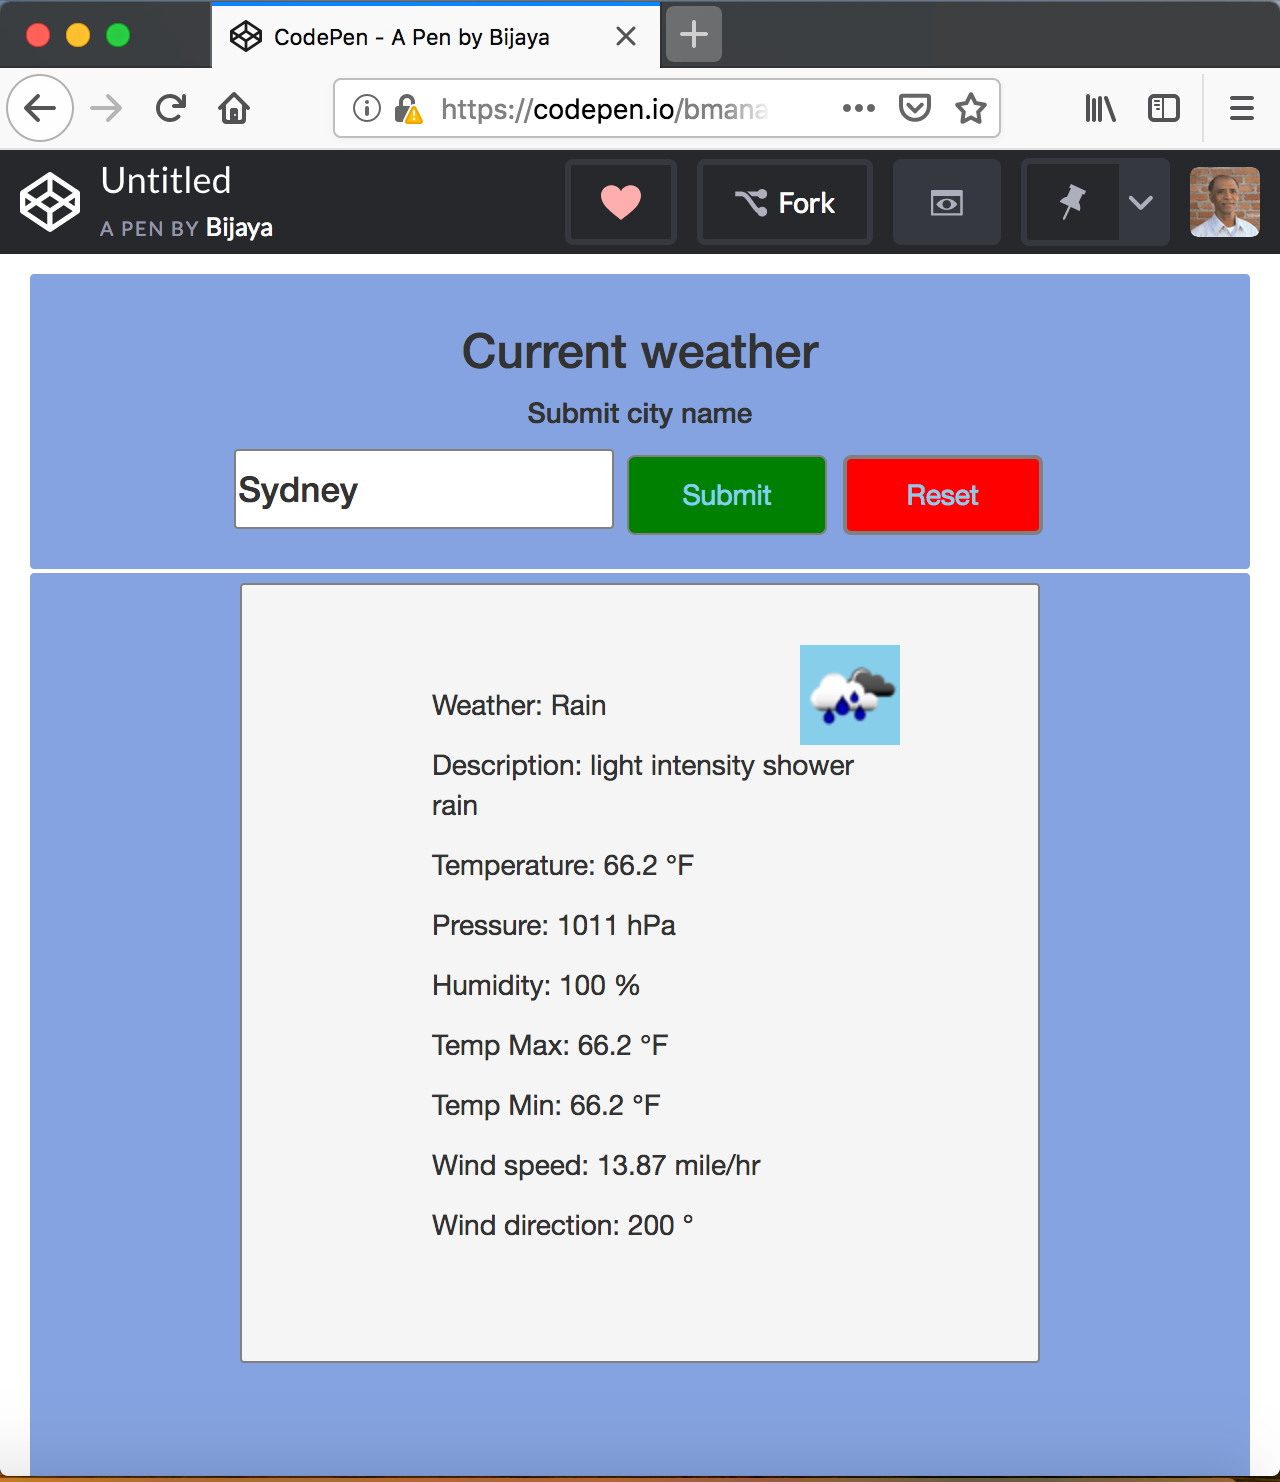
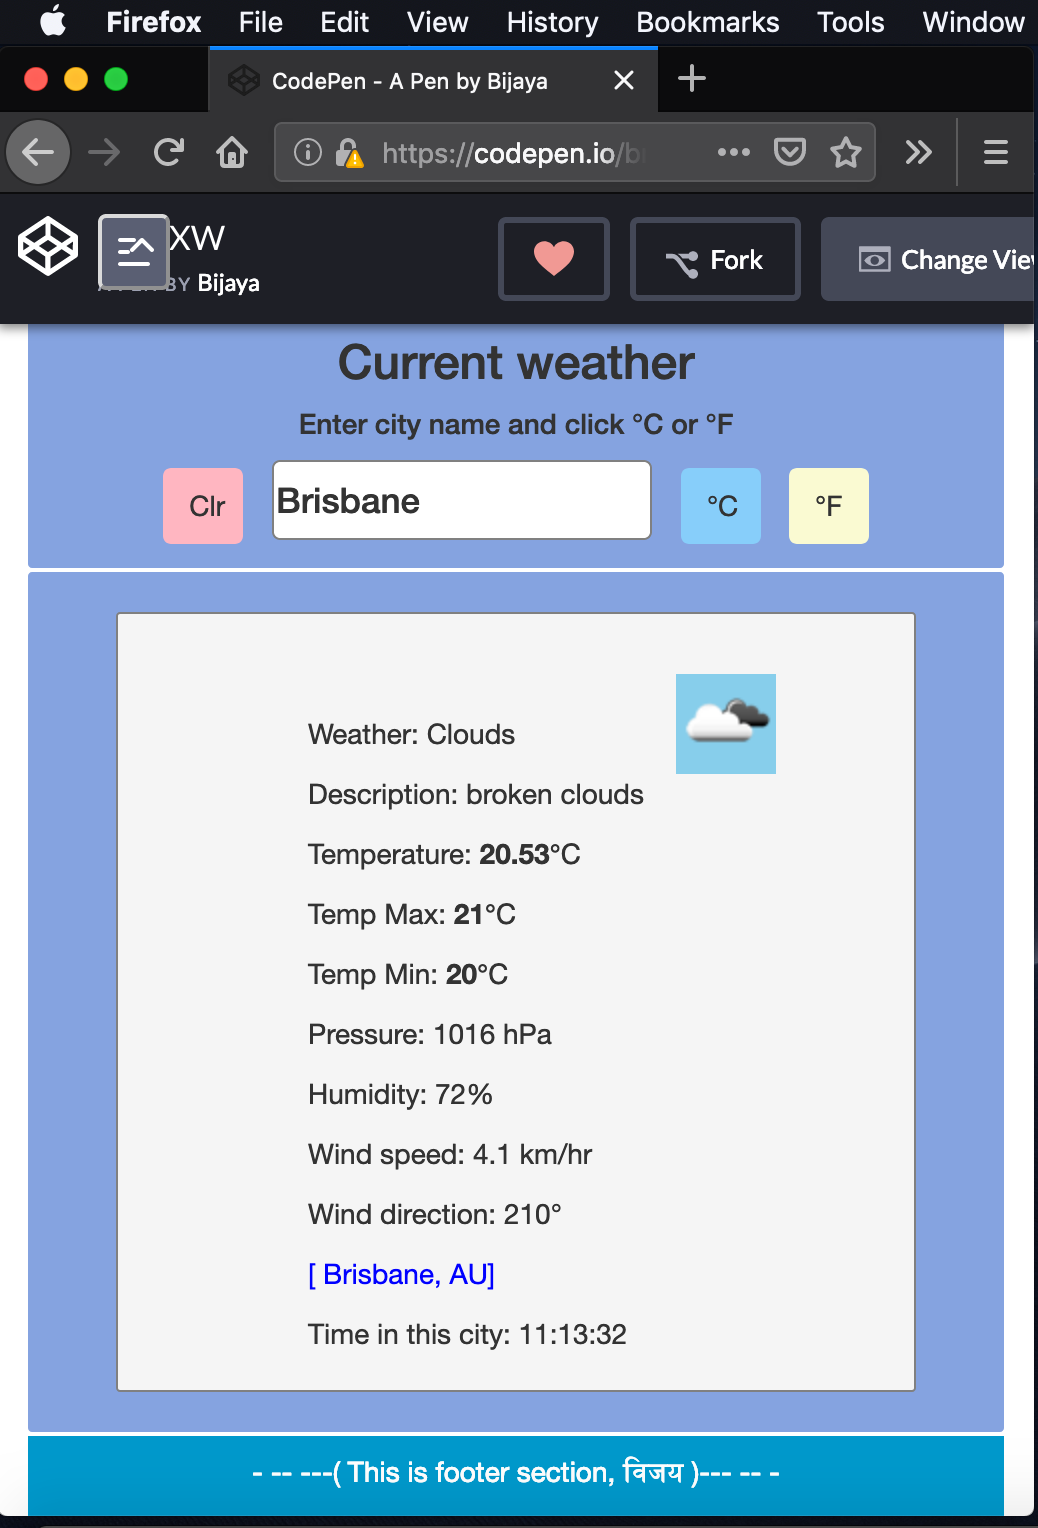
adds changes

diff --git a/script.js b/script.js
@@ -1,8 +1,18 @@
 $(document).ready(function(){
-    $("#reset").click(function(){
+    $(".reset").click(function(){
         location.reload();
     });
-    $("#submit").click(function(){
+  
+    var now = new Date();
+    // var nowArray = now.split("");
+    console.log(now);
+    console.log('now is', typeof now);
+    var timestamp = now.getTime()
+    console.log(timestamp);
+    console.log(typeof timestamp);
+    var time = now.getHours() + ":" + now.getMinutes() + ":" + now.getSeconds();
+    console.log(`${time}`);
+    $(".imperial").click(function(){
         var city = $("#city").val();
         if (city != ""){
             $.ajax({
@@ -13,7 +23,7 @@ $(document).ready(function(){
             dataType: "json",
             success:function(data){
                 console.log(data);
-                var widget = show(data);
+                var widget = imperial(data);
                 $("#show").html(widget);
                 $(".conversion").css("display", "block");
             },
@@ -27,30 +37,34 @@ $(document).ready(function(){
             $("#show").html("<h3 style='color:red'><i>City name empty<i></h3>")
         }
     });
-});
-
-function show(data){
-    return (
-       `<img style="background-color:skyblue" src='http://openweathermap.org/img/w/${data.weather[0].icon}.png'/><br>
-        <p>Weather: ${data.weather[0].main}</p>
-        <p>Description: ${data.weather[0].description}</p>
-        <p>Temperature: ${data.main.temp} &#8457</p>
-        <p>Pressure: ${data.main.pressure} hPa</p>
-        <p>Humidity: ${data.main.humidity} %</p>
-        <p>Temp Max: ${data.main.temp_max} &#8457</p>
-        <p>Temp Min: ${data.main.temp_min} &#8457</p>
-        <p>Wind speed: ${data.wind.speed} mile/hr</p>
-        <p>Wind direction: ${data.wind.deg} &#176</p>`
-        // <p style="color:blue">[ ${data.name}, ${data.sys.country}]<p>
-        );
+  });
+  
+  function imperial(data){
+      var now = new Date();
+      var timestamp = now.getTime()
+      var time = now.getHours() + ":" + now.getMinutes() + ":" + now.getSeconds();
+      return (
+        `<img style="background-color:skyblue" src='http://openweathermap.org/img/w/${data.weather[0].icon}.png'/><br>
+          <p>Weather: ${data.weather[0].main}</p>
+          <p>Description: ${data.weather[0].description}</p>
+          <p>Temperature: <b>${data.main.temp}</b>&#8457</p>
+          <p>Temp Max: <b>${data.main.temp_max}</b>&#8457</p>
+          <p>Temp Min: <b>${data.main.temp_min}</b>&#8457</p>
+          <p>Pressure: ${data.main.pressure} hPa</p>
+          <p>Humidity: ${data.main.humidity}%</p>
+          <p>Wind speed: ${data.wind.speed} mile/hr</p>
+          <p>Wind direction: ${data.wind.deg}&#176</p>
+          <p style="color:blue">[ ${data.name}, ${data.sys.country}]<p>
+          <p>Time in this city: ${time}</p>`
+          );
     }
-
-/*Metric:-
-$(document).ready(function(){
+  
+  //Metric:-
+  $(document).ready(function(){
     $("#reset").click(function(){
         location.reload();
     });
-    $(".conversion").click(function(){
+    $(".metric").click(function(){
         var city = $("#city").val();
         if (city != ""){
             $.ajax({
@@ -61,7 +75,7 @@ $(document).ready(function(){
             dataType: "json",
             success:function(data){
                 console.log(data);
-                var widget = show(data);
+                var widget = metric(data);
                 $("#show").html(widget);
             },
             error: function(response){
@@ -74,23 +88,25 @@ $(document).ready(function(){
             $("#show").html("<h3 style='color:red'><i>City name empty<i></h3>")
         }
     });
-});
-
-function show(data){
-    return (
-       `<img style="background-color:skyblue" src='http://openweathermap.org/img/w/${data.weather[0].icon}.png'/><br>
-        <p>Weather: ${data.weather[0].main}</p>
-        <p>Description: ${data.weather[0].description}</p>
-        <p>Temperature: ${data.main.temp} &#8451</p>
-        <p>Pressure: ${data.main.pressure} hPa</p>
-        <p>Humidity: ${data.main.humidity} %</p>
-        <p>Temp Max: ${data.main.temp_max} &#8451</p>
-        <p>Temp Min: ${data.main.temp_min} &#8451</p>
-        <p>Wind speed: ${data.wind.speed} km/hr</p>
-        <p>Wind direction: ${data.wind.deg} &#176</p>
-        <p style="color:blue">[ ${data.name}, ${data.sys.country}]<p>`
-        );
+  });
+  
+  function metric(data){
+      var now = new Date();
+      var timestamp = now.getTime()
+      var time = now.getHours() + ":" + now.getMinutes() + ":" + now.getSeconds();
+      return (
+        `<img style="background-color:skyblue" src='http://openweathermap.org/img/w/${data.weather[0].icon}.png'/><br>
+          <p>Weather: ${data.weather[0].main}</p>
+          <p>Description: ${data.weather[0].description}</p>
+          <p>Temperature: <b>${data.main.temp}</b>&#8451</p>
+          <p>Temp Max: <b>${data.main.temp_max}</b>&#8451</p>
+          <p>Temp Min: <b>${data.main.temp_min}</b>&#8451</p>
+          <p>Pressure: ${data.main.pressure} hPa</p>
+          <p>Humidity: ${data.main.humidity}%</p>
+          <p>Wind speed: ${data.wind.speed} km/hr</p>
+          <p>Wind direction: ${data.wind.deg}&#176</p>
+          <p style="color:blue">[ ${data.name}, ${data.sys.country}]<p>
+          <p>Time in this city: ${time}</p>`
+          );
     }
-
-
-*/
+    

diff --git a/style.css b/style.css
@@ -1,101 +1,114 @@
-
 .header {
-    background-color: #85a3e0;
-    margin: 10px 0 0 0;
-    border-radius: 2px;
-    padding: 5px;
-  }
+  background-color: #85a3e0;
+  margin: px 0 0 0;
+  border-radius: 2px;
+  padding: 2px;
+}
 
-  .input-box {
-    width: 190px;
-    height: 40px;
-    margin: .5px;
-    border: 1px;
-    border-style: solid;
-    border-color: grey;
-    border-radius: 2px;
-    padding: 1px; 
-    font-size: 1.25em;     
-  }
-  
-  .city {
-    font-family: 'Courier New', Courier, monospace;
-    height: 25px;
-    font-size: 18px;
-    border-radius: 2px;
-  }
+.input-box {
+  width: 190px;
+  height: 40px;
+  margin: .5px;
+  border: 1px;
+  border-style: solid;
+  border-color: grey;
+  border-radius: 4px;
+  padding: 1px; 
+  font-size: 1.25em;     
+}
 
-  .btn {
-    width: 100px;
-    height: 40px;
-    border-radius: 2px;
-    color: skyblue;    
-  }
+.city {
+  font-family: 'Courier New', Courier, monospace;
+  height: 25px;
+  font-size: 18px;
+  border-radius: 2px;
+}
 
-  #submit {
-    background-color: green;
-    margin: 2px;
-    border: 1px;
-    border-style: solid;
-    border-color: grey;
-  }
+.btn {
+  width: 40px;
+  height: 38px;
+  border-radius: 2px;
+}
 
-  #reset {
-    background-color: red;
-    margin: 2px;
-    border: 2px;
-    border-style: solid;
-    border-color: grey;
-  }
-  
-  .main {
-    background-color: #85a3e0;
-    height: 475px;
-    margin: 2px 0;
-    border-radius: 2px;
-    padding: 5px;
-  }
-  
-  .center{
-    background-color: whitesmoke;
-    margin: auto;
-    width: 75%;
-    border: 1px solid grey;
-    padding: 2px;
-    width: 400px;
-    height: 390px;
-    border-radius: 2px;   
+.imperial{
+  background-color: lightgoldenrodyellow;
+  margin-left: 10px;
+} 
+
+.metric {
+  background-color: lightskyblue;
+  margin-left: 10px;
+}
+
+.reset {
+  background-color: lightpink;  
+  margin-right: 10px;
+}
+
+.main {
+  background-color: #85a3e0;
+  height: 430px;
+  margin: 2px 0;
+  border-radius: 2px;
+  padding: 20px;
+}
+
+.center{
+  background-color: whitesmoke;
+  margin: auto;
+  width: 75%;
+  border: 1px solid grey;
+  padding: 2px;
+  width: 400px;
+  height: 390px;
+  border-radius: 2px;   
 }
 
 .conversion {
-  display: none;
+display: none;
+}
+
+.temp-and-btn {
+  display: flex;
+  justify-content: space-between;
+}
+
+.convert-btn {
+  height: 22px;
+  width: 50px;
+  background-color: skyblue;
+}
+
+.temp {
+  width: 136px;
+  background-color: lightgray
+  border: 2px solid yellowgreen;
+
 }
 
 #show{
-    text-align: left;
-    width: 250px;
-    height: 360px;
-    border-radius: 2px;
-    margin: 20px 0 10px 85px;;
-    border: 3px;
-    border-style: solid;
-    border-color: transparent;
-    padding: 5px;
+  text-align: left;
+  width: 250px;
+  height: 360px;
+  border-radius: 2px;
+  margin: 20px 0 10px 85px;;
+  border: 3px;
+  border-style: solid;
+  border-color: transparent;
+  padding: 5px;
 }
 
 .error {
-  color: red;
+color: red;
 }
 
 img {
-    float: right;
+  float: right;
 }
 
 footer {
-    height: 40px;
-    background-color: #0099CC;
-    color: white;
-    padding: 8px;
-    border: 2px solid blueviolet;
-    border-radius: 2%;
-    }
+  height: 40px;
+  background-color: #0099CC;
+  color: white;
+  padding: 8px;
+  }

diff --git a/index.html b/index.html
@@ -14,25 +14,20 @@
     <div class="container-fluid text-center">
         <div class="header">
             <h3>Current weather</h3>
-            <h5>Submit city name<h5>
+            <h5>Enter city name and click &degC or &degF<h5>            
+            <button class="btn reset">Clr</button>
             <input class="input-box" type="text" id="city" placeholder="City name">
-            <button class="btn" type="submit" id="submit">Submit</button>
-            <button class="btn" id="reset">Reset</button>
+            <button class="btn metric" type="submit" id="submit">&degC</button>
+            <button class="btn imperial" type="submit" id="submit">&degF</button>
         </div>
         <div class="main">
             <div class="center">
-                <div class="conversion">
-<!--                     <button class="btn btn-primary">C/F</button> -->
-                </div>
                 <div id="show">
                 </div>
             </div>
         </div>
-        <br>
         <footer>- -- ---( This is footer section, विजय )--- -- -</footer>
-        <script src="script.js"></script> 
-        <!-- <script src="script/imperial.js"></script> 
-        <script src="script/metric.js"></script>  -->
+        <script src="script.js"></script>
     </div>
 </body>
 </html>

diff --git a/README.md b/README.md
@@ -43,9 +43,11 @@ If the city name entered is invalid or has error, it displays error messages acc
 
 <img src="weather.png" alt="Weather" width=400/> 
 
-* Error Message
-<img src="weather_error.png" alt="Error" width=400/> 
+* Error Message for empty city-field 
+<img src="weather_empty.png" alt="Error" width=400/> 
 
+* Error Message for wrong city-field 
+<img src="weather_wrong.png" alt="Error" width=400/> 
 
 
 
